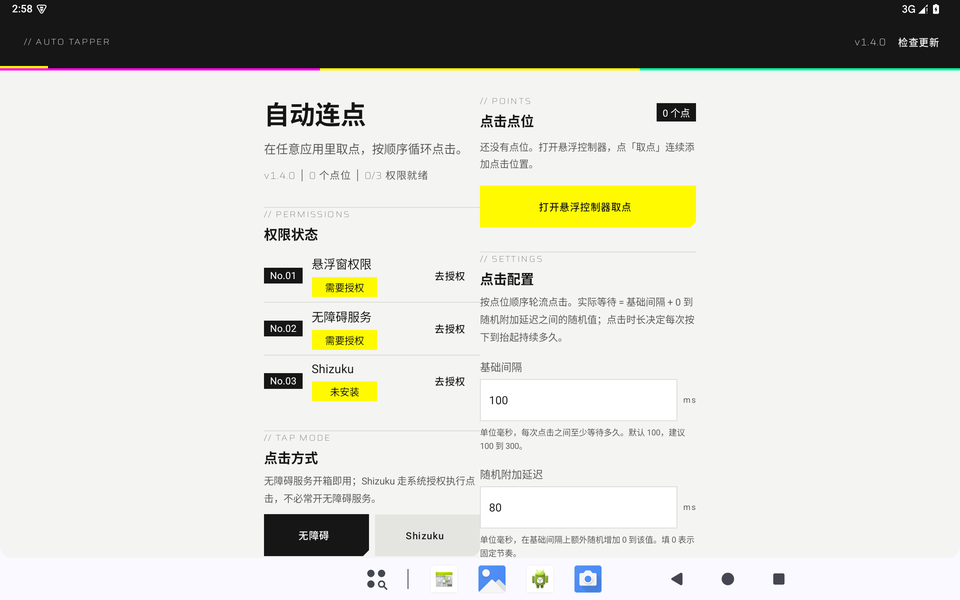
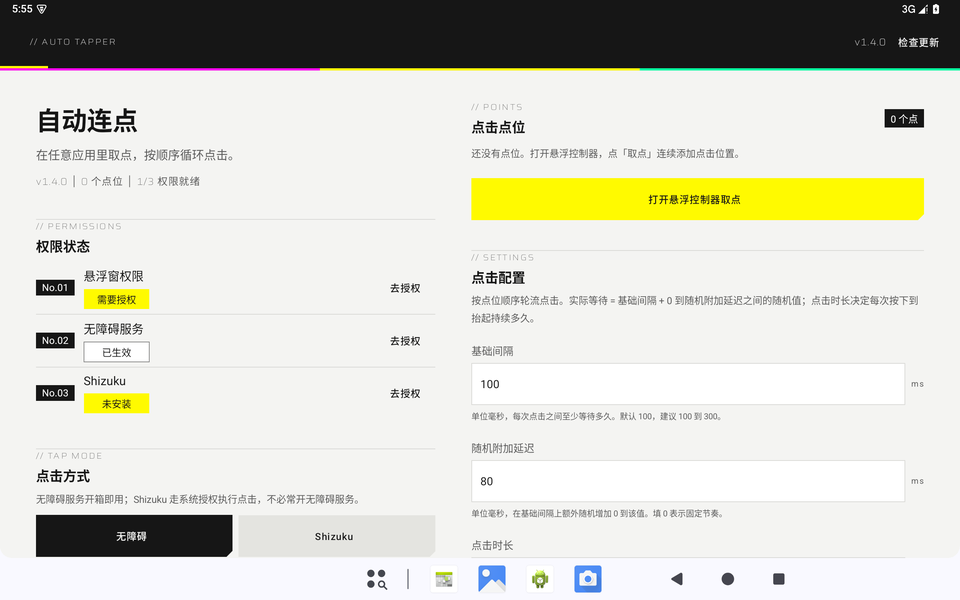
平板端布局重做：统一 w<N>dp 限定符、取消内容宽度上限、两栏 45:55 铺满屏幕

diff --git a/app/src/main/java/com/example/autotapper/MainActivity.kt b/app/src/main/java/com/example/autotapper/MainActivity.kt
@@ -587,12 +587,13 @@ class MainActivity : AppCompatActivity() {
     }
 
     /**
-     * 响应式布局（断点用 Android 官方窗口尺寸：600dp / 840dp，尺寸与字号由资源限定符给出）：
-     *  - 可用宽度 < 840dp → 单列，渲染顺序 = 左栏全部 + 右栏全部，与改造前的单列顺序逐段一致：
-     *      手机档（sw < 600dp）content_max_width = 10000dp，等于不限制宽度，满宽单列；
-     *      平板竖屏档（sw >= 600dp）content_max_width = 640dp，单列加宽并居中。
-     *  - 可用宽度 >= 840dp → 左右两栏并排，各占一半（平板横屏、大屏）：
+     * 响应式布局（断点用 Android 官方窗口宽度：600dp / 840dp，尺寸与字号由 w<N>dp 资源限定符给出）：
+     *  - 可用宽度 < 840dp → 单列，渲染顺序 = 左栏全部 + 右栏全部，与改造前的单列顺序逐段一致；
+     *      手机与平板竖屏都不限内容宽度（content_max_width = 10000dp），留白只由 page_gutter 控制，
+     *      因此平板竖屏是「铺满可用宽度」而不是「中间一条窄卡片」。
+     *  - 可用宽度 >= 840dp（平板横屏、大屏）→ 左右两栏并排，宽度按 45:55 分配：
      *      左栏 = 说明 hero + 权限状态 + 点击方式；右栏 = 点击点位 + 点击配置 + 当前配置 + 使用说明。
+     *      右栏内容更多（列表 + 四组输入 + 看板 + 说明），所以多拿一点横向空间。
      * 只在数值真的发生变化时才改 layoutParams，避免配置变化时无谓地触发 requestLayout。
      */
     private fun applyResponsiveLayout() {
@@ -611,10 +612,9 @@ class MainActivity : AppCompatActivity() {
             contentSplit.orientation = targetOrientation
         }
 
-        // 两栏时左右各占一半（width=0 + weight=1）；单列时回到 match_parent + weight=0
-        val columnWeight = if (twoColumn) 1f else 0f
-        applyColumnParams(contentLeft, columnWeight)
-        applyColumnParams(contentRight, columnWeight)
+        // 两栏时按 45:55 分配（width=0 + weight）；单列时回到 match_parent + weight=0
+        applyColumnParams(contentLeft, if (twoColumn) LEFT_COLUMN_WEIGHT else 0f)
+        applyColumnParams(contentRight, if (twoColumn) RIGHT_COLUMN_WEIGHT else 0f)
 
         // 两栏间距只加在右栏的 paddingStart 上；单列时归零（改造前两栏容器都没有内边距）
         val columnGapPx = if (twoColumn) resources.getDimensionPixelSize(R.dimen.column_gap) else 0
@@ -671,5 +671,9 @@ class MainActivity : AppCompatActivity() {
 
         /** Android 官方窗口宽度断点：>= 840dp 时主界面切成左右两栏。 */
         private const val WINDOW_WIDTH_TWO_COLUMN_DP = 840
+
+        /** 两栏宽度比例：右栏表单与列表更重，给它多一点横向空间。 */
+        private const val LEFT_COLUMN_WEIGHT = 0.45f
+        private const val RIGHT_COLUMN_WEIGHT = 0.55f
     }
 }

diff --git a/README.md b/README.md
@@ -76,25 +76,26 @@
 ## 平板适配
 
 <p align="center">
-  <img src="./assets/readme/screen-tablet-landscape.png" width="48%" alt="平板横屏：左右两栏，左侧说明与权限，右侧点位与参数">
-  <img src="./assets/readme/screen-tablet-portrait.png" width="48%" alt="平板竖屏：单列加宽居中，页边距与字号放大">
+  <img src="./assets/readme/screen-tablet-landscape.png" width="48%" alt="平板横屏：左右两栏铺满屏幕，左侧说明与权限，右侧点位与参数">
+  <img src="./assets/readme/screen-tablet-portrait.png" width="48%" alt="平板竖屏：单列铺满可用宽度，页边距与字号放大">
 </p>
 
 布局按 Android 窗口尺寸自动切换：**sw600dp 起算平板**，可用宽度 **≥840dp**（平板横屏、大屏）起两栏。
 
 - 手机：保持原来的单列。
-- 平板竖屏：仍是单列，但内容加宽并居中，页边距放大，看着不挤。
-- 平板横屏 / 大屏：改成左右两栏——左边放说明、权限状态与点击方式，右边放点位列表、参数与当前配置、说明；栏间距 40dp。
+- 平板竖屏：仍是单列，但铺满可用宽度（只留 40dp 页边距），不会在两侧留下大片空白。
+- 平板横屏 / 大屏：改成左右两栏，按 **45 : 55** 分配宽度——左栏放说明、权限状态与点击方式，右栏放点位列表、参数与当前配置、说明；栏间距 48dp。
 - 平板上的按钮、输入框、列表行高和字号同步放大，大标题、分区标题和正文都更醒目。
+- 内容宽度不再设上限：留白只由页边距控制，所以横屏时版面能占到屏宽约 92%，竖屏约 90%。
 - 悬浮控制器在平板上也跟着放大：窄条、收起小标签、读数板、格子与点位徽标都变大，贴边距与切角细节保持同样的视觉语言。
 
 三档主要尺寸对照：
 
-| | 手机 | 平板 | 大屏（横屏 / 宽屏） |
+| | 手机 | 平板竖屏 | 平板横屏 / 大屏 |
 | --- | --- | --- | --- |
-| 页边距 | 16dp | 32dp | 40dp |
-| 内容上限 | 不限 | 640dp | 1120dp |
-| 栏目数 | 单列 | 单列居中 | 左右两栏 |
+| 页边距 | 16dp | 40dp | 48dp |
+| 内容宽度 | 铺满 | 铺满 | 两栏 45 : 55 |
+| 栏目数 | 单列 | 单列 | 左右两栏 |
 | 按钮高度 | 48dp | 56dp | 56dp |
 | 窄条宽度 | 46dp | 54dp | 58dp |
 | 徽标直径 | 24dp | 28dp | 30dp |

diff --git a/CHANGELOG.md b/CHANGELOG.md
@@ -20,6 +20,11 @@
 - 修复主界面删点后控制器点位数不同步的问题，两处始终显示同一份点位。
 - 修复悬浮窗权限被撤销时可能崩溃或留下孤儿窗口的问题。
 - 修复长按期间前台通知重复刷新的问题。
+- **修复平板横屏版面挤在屏幕中间、两侧留大片空白的问题。**
+  根因：平板两档尺寸分别写在 `sw600dp` 与 `w840dp` 两个限定符目录里，1280dp 宽的平板会同时命中两者，
+  系统最终选中了 `sw600dp` 那套更窄的内容上限（640dp，只占屏宽一半），而代码仍按 840dp 切了两栏。
+  现在两档统一用 `w<N>dp` 限定符（大值优先命中，结果确定），并取消内容宽度上限、只由页边距控制留白：
+  横屏两栏按 45:55 分配、内容占屏宽约 92%，竖屏单列约 90%。
 
 ### 新增
 
@@ -30,8 +35,8 @@
 - 控制器可以上下拖动：拖顶部读数格，整条窄条跟着走；松手吸附到最近左右边缘并记住位置。
 - 点位徽标改为 24dp 细环加序号：当前点填信号黄并闪烁；收起时隐藏（点击进行中保留）。
 - 闲置 4 秒后控制器淡化到设定不透明度的 45%（最低 32% 保底），触摸即恢复；点击进行中保持 85%。
-- **平板适配**：手机单列不变；平板竖屏单列加宽居中，平板横屏 / 大屏改为左右两栏
-  （左：说明 + 权限 + 点击方式；右：点位 + 参数 + 当前配置 + 说明）。控件与字号同步放大，
+- **平板适配**：手机单列不变；平板竖屏单列铺满可用宽度，平板横屏 / 大屏改为左右两栏（45:55 分配，
+  左：说明 + 权限 + 点击方式；右：点位 + 参数 + 当前配置 + 说明）。控件与字号同步放大，
   悬浮控制器在平板也跟着放大。布局按窗口宽度自动切换，三档尺寸随屏宽生效。
 
 ### 变更
